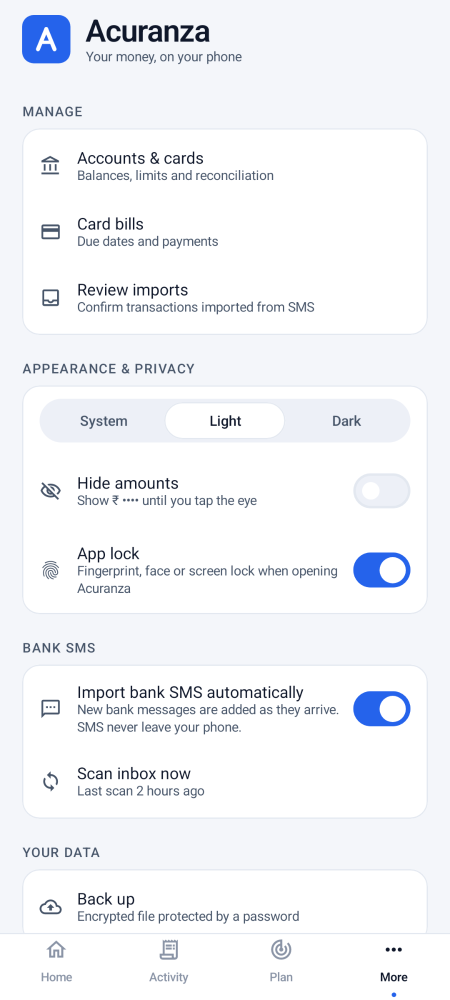
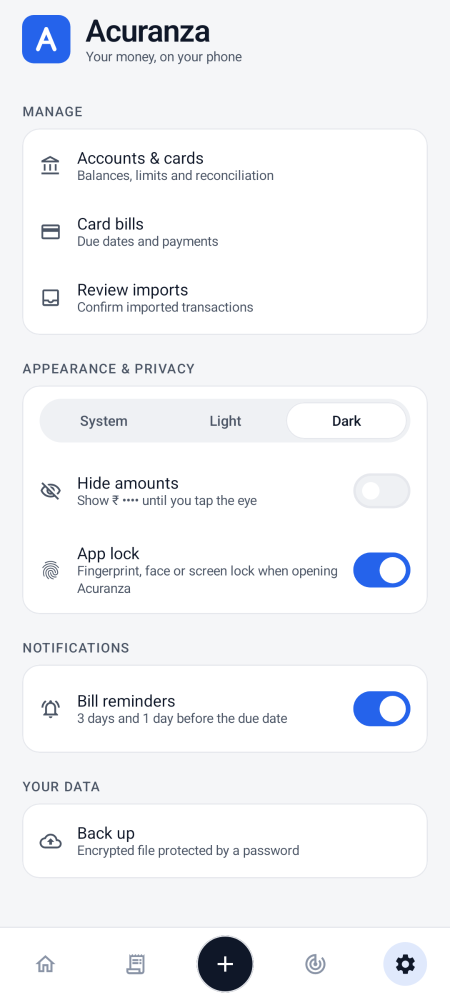
v1.3.0: UI redesign pass via ui-ux-pro-max skill — refined dark-first palette (WCAG-verified), component polish (row rhythm, empty states, radius rhythm), refreshed screenshots

diff --git a/core/designsystem/src/main/java/com/acuranza/app/designsystem/theme/Color.kt b/core/designsystem/src/main/java/com/acuranza/app/designsystem/theme/Color.kt
@@ -7,43 +7,46 @@ import androidx.compose.ui.graphics.Color
 import androidx.compose.ui.graphics.SolidColor
 
 /**
- * The Acuranza palette: cool slate-navy surfaces, off-white ink, one trust-blue accent for the brand
- * and interactions, and green reserved for money coming in. There are deliberately no gradients;
- * the old gradient names resolve to flat colours.
+ * The Acuranza palette.
+ *
+ * Dark (the default) is a deep slate-navy with clearly layered surfaces: background, card and
+ * fill step apart in lightness while hue stays constant. Text uses one ink ramp; colour is spent
+ * only where it carries meaning — green for money in, amber/red for attention, the brand blue
+ * for actions. Light mode mirrors the same structure. There are deliberately no gradients.
  */
 object BrandPalette {
     // Neutrals (light)
-    val Paper = Color(0xFFF4F6FA)
+    val Paper = Color(0xFFF5F6F8)
     val Card = Color(0xFFFFFFFF)
-    val Hairline = Color(0xFFE3E8F0)
-    val Divider = Color(0xFFEAEEF5)
-    val Ink = Color(0xFF0F172A)
-    val InkSecondary = Color(0xFF475569)
+    val Hairline = Color(0xFFE6E8ED)
+    val Divider = Color(0xFFEEF0F3)
+    val Ink = Color(0xFF0F1728)
+    val InkSecondary = Color(0xFF4B5565)
     val InkTertiary = Color(0xFF8A94A6)
-    val Fill = Color(0xFFEDF0F7)
+    val Fill = Color(0xFFEFF1F4)
 
-    // Neutrals (dark) — deep navy, not black
-    val Night = Color(0xFF0F172A)
-    val NightCard = Color(0xFF192134)
-    val NightHairline = Color(0xFF2A3A5C)
-    val NightFill = Color(0xFF1E2942)
-    val Snow = Color(0xFFF1F5F9)
-    val SnowSecondary = Color(0xFF94A3B8)
-    val SnowTertiary = Color(0xFF64748B)
+    // Neutrals (dark) — deep slate-navy, not black
+    val Night = Color(0xFF0B1220)
+    val NightCard = Color(0xFF151E2E)
+    val NightHairline = Color(0xFF2A3850)
+    val NightFill = Color(0xFF1D2737)
+    val Snow = Color(0xFFF3F6FB)
+    val SnowSecondary = Color(0xFF9FADC4)
+    val SnowTertiary = Color(0xFF6C7B96)
 
     // Accent — the brand blue
     val Blue = Color(0xFF2563EB)
     val BlueDeep = Color(0xFF1D4ED8)
-    val BlueBright = Color(0xFF60A5FA)
+    val BlueBright = Color(0xFF66A3FF)
     val BlueTint = Color(0xFFEFF6FF)
-    val BlueTintDark = Color(0xFF17263F)
+    val BlueTintDark = Color(0xFF16233C)
 
     // Money in — the only green
-    val Emerald = Color(0xFF059669)
+    val Emerald = Color(0xFF047857)
     val EmeraldDeep = Color(0xFF047857)
     val EmeraldBright = Color(0xFF34D399)
     val EmeraldTint = Color(0xFFECFDF5)
-    val EmeraldTintDark = Color(0xFF0D2A21)
+    val EmeraldTintDark = Color(0xFF0E2E24)
 
     // Status
     val Red = Color(0xFFDC2626)
@@ -51,7 +54,7 @@ object BrandPalette {
     val Amber = Color(0xFFB45309)
     val AmberTint = Color(0xFFFFFBEB)
 
-    /** Kept for compatibility; Acuranza uses no gradients, so this is flat ink. */
+    /** Kept for compatibility; Acuranza uses no gradients, so this is flat colour. */
     val brandGradient: Brush get() = SolidColor(Ink)
 
     /** Kept for compatibility; flat brand blue. */
@@ -115,7 +118,7 @@ internal val LightAcuranzaColors = AcuranzaColors(
     glassBorder = BrandPalette.Hairline,
     subtleText = BrandPalette.InkSecondary,
     divider = BrandPalette.Divider,
-    shimmerBase = Color(0xFFE9EDF4),
+    shimmerBase = Color(0xFFE9EBEF),
     shimmerHighlight = BrandPalette.Paper,
     isDark = false,
     ink = BrandPalette.Ink,
@@ -134,7 +137,7 @@ internal val DarkAcuranzaColors = AcuranzaColors(
     income = BrandPalette.EmeraldBright,
     expense = BrandPalette.Snow,
     transfer = BrandPalette.SnowSecondary,
-    warning = Color(0xFFF59E0B),
+    warning = Color(0xFFFBBF24),
     alert = Color(0xFFF87171),
     good = BrandPalette.EmeraldBright,
     tip = BrandPalette.BlueBright,
@@ -154,9 +157,9 @@ internal val DarkAcuranzaColors = AcuranzaColors(
     hairline = BrandPalette.NightHairline,
     accent = BrandPalette.BlueBright,
     accentTint = BrandPalette.BlueTintDark,
-    alertTint = Color(0xFF2A1414),
-    warningTint = Color(0xFF2A2010),
-    tipTint = Color(0xFF14202F),
+    alertTint = Color(0xFF2C1518),
+    warningTint = Color(0xFF2B2312),
+    tipTint = BrandPalette.BlueTintDark,
     fill = BrandPalette.NightFill,
 )
 

diff --git a/app/src/test/java/com/acuranza/app/screenshots/ScreensScreenshotTest.kt b/app/src/test/java/com/acuranza/app/screenshots/ScreensScreenshotTest.kt
@@ -21,8 +21,7 @@ import androidx.compose.material.icons.outlined.Backup
 import androidx.compose.material.icons.outlined.CreditCard
 import androidx.compose.material.icons.outlined.Fingerprint
 import androidx.compose.material.icons.outlined.Inbox
-import androidx.compose.material.icons.outlined.Sms
-import androidx.compose.material.icons.outlined.Sync
+import androidx.compose.material.icons.outlined.NotificationsActive
 import androidx.compose.material.icons.outlined.VisibilityOff
 import androidx.compose.material3.Icon
 import androidx.compose.material3.MaterialTheme
@@ -213,16 +212,15 @@ class ScreensScreenshotTest {
                 Section("Manage") {
                     ActionRow("Accounts & cards", "Balances, limits and reconciliation", Icons.Outlined.AccountBalance) {}
                     ActionRow("Card bills", "Due dates and payments", Icons.Outlined.CreditCard) {}
-                    ActionRow("Review imports", "Confirm transactions imported from SMS", Icons.Outlined.Inbox) {}
+                    ActionRow("Review imports", "Confirm imported transactions", Icons.Outlined.Inbox) {}
                 }
                 Section("Appearance & privacy") {
-                    SegmentedTabs(listOf("System", "Light", "Dark"), 1, onSelect = {}, modifier = Modifier.padding(vertical = 8.dp))
+                    SegmentedTabs(listOf("System", "Light", "Dark"), 2, onSelect = {}, modifier = Modifier.padding(vertical = 8.dp))
                     SwitchRow("Hide amounts", "Show ₹ •••• until you tap the eye", false, {}, Icons.Outlined.VisibilityOff)
                     SwitchRow("App lock", "Fingerprint, face or screen lock when opening Acuranza", true, {}, Icons.Outlined.Fingerprint)
                 }
-                Section("Bank SMS") {
-                    SwitchRow("Import bank SMS automatically", "New bank messages are added as they arrive. SMS never leave your phone.", true, {}, Icons.Outlined.Sms)
-                    ActionRow("Scan inbox now", "Last scan 2 hours ago", Icons.Outlined.Sync) {}
+                Section("Notifications") {
+                    SwitchRow("Bill reminders", "3 days and 1 day before the due date", true, {}, Icons.Outlined.NotificationsActive)
                 }
                 Section("Your data") {
                     ActionRow("Back up", "Encrypted file protected by a password", Icons.Outlined.Backup) {}

diff --git a/core/designsystem/src/main/java/com/acuranza/app/designsystem/components/Transactions.kt b/core/designsystem/src/main/java/com/acuranza/app/designsystem/components/Transactions.kt
@@ -77,11 +77,11 @@ fun TransactionRow(
             .fillMaxWidth()
             .clip(RoundedCornerShape(12.dp))
             .then(if (onClick != null) Modifier.clickable(onClick = onClick) else Modifier)
-            .padding(horizontal = 2.dp, vertical = 12.dp),
+            .padding(horizontal = 2.dp, vertical = 14.dp),
         verticalAlignment = Alignment.CenterVertically,
     ) {
         Box {
-            CategoryIcon(iconName = iconName, color = categoryColor, size = 36.dp)
+            CategoryIcon(iconName = iconName, color = categoryColor, size = 40.dp)
             if (unreviewed) {
                 Box(
                     Modifier
@@ -96,7 +96,7 @@ fun TransactionRow(
                 )
             }
         }
-        Spacer(Modifier.width(12.dp))
+        Spacer(Modifier.width(14.dp))
         Column(Modifier.weight(1f)) {
             Text(
                 title,
@@ -118,7 +118,7 @@ fun TransactionRow(
                 )
             }
         }
-        Spacer(Modifier.width(10.dp))
+        Spacer(Modifier.width(12.dp))
         Column(horizontalAlignment = Alignment.End) {
             AmountText(paise = amount, type = type, hidden = hidden, style = AmountStyles.medium)
             if (trailingNote != null) {
@@ -159,7 +159,7 @@ fun DateHeader(
     Row(
         modifier = modifier
             .fillMaxWidth()
-            .padding(top = 18.dp, bottom = 6.dp, start = 4.dp, end = 4.dp),
+            .padding(top = 20.dp, bottom = 8.dp, start = 4.dp, end = 4.dp),
         verticalAlignment = Alignment.CenterVertically,
     ) {
         Text(
@@ -218,8 +218,8 @@ fun SwipeActionsRow(
             Box(
                 Modifier
                     .fillMaxSize()
-                    .clip(RoundedCornerShape(18.dp))
-                    .background(color.copy(alpha = 0.9f))
+                    .clip(RoundedCornerShape(16.dp))
+                    .background(color.copy(alpha = 0.92f))
                     .padding(horizontal = 22.dp),
                 contentAlignment = if (direction == SwipeToDismissBoxValue.StartToEnd) Alignment.CenterStart else Alignment.CenterEnd,
             ) {

diff --git a/core/designsystem/src/main/java/com/acuranza/app/designsystem/components/Controls.kt b/core/designsystem/src/main/java/com/acuranza/app/designsystem/components/Controls.kt
@@ -217,14 +217,14 @@ fun EmptyState(
     ) {
         Box(
             Modifier
-                .size(56.dp)
-                .clip(RoundedCornerShape(16.dp))
+                .size(64.dp)
+                .clip(androidx.compose.foundation.shape.CircleShape)
                 .background(AcuranzaTheme.colors.fill),
             contentAlignment = Alignment.Center,
         ) {
-            Icon(icon, contentDescription = null, tint = AcuranzaTheme.colors.subtleText, modifier = Modifier.size(26.dp))
+            Icon(icon, contentDescription = null, tint = AcuranzaTheme.colors.subtleText, modifier = Modifier.size(28.dp))
         }
-        Spacer(Modifier.height(20.dp))
+        Spacer(Modifier.height(24.dp))
         Text(title, style = MaterialTheme.typography.titleMedium, textAlign = TextAlign.Center)
         Spacer(Modifier.height(8.dp))
         Text(

diff --git a/app/src/main/java/com/acuranza/app/ui/settings/MoreScreen.kt b/app/src/main/java/com/acuranza/app/ui/settings/MoreScreen.kt
@@ -159,7 +159,7 @@ fun MoreScreen(nav: NavController) {
             item(key = "shortcuts") {
                 Section("Manage") {
                     ActionRow("Accounts & cards", "Balances, limits and reconciliation", Icons.Outlined.AccountBalance) { nav.navigate(Routes.ACCOUNTS) }
-                    ActionRow("Review imports", "Confirm transactions imported from SMS", Icons.Outlined.Inbox) { nav.navigate(Routes.REVIEW) }
+                    ActionRow("Review imports", "Confirm imported transactions", Icons.Outlined.Inbox) { nav.navigate(Routes.REVIEW) }
                     ActionRow("Insights", "Offline suggestions for your budget and goals", Icons.Outlined.AutoAwesome) { nav.navigate(Routes.INSIGHTS) }
                     ActionRow("Categories", null, Icons.Outlined.Category) { nav.navigate(Routes.CATEGORIES) }
                 }

diff --git a/app/src/main/java/com/acuranza/app/ui/onboarding/NotificationGate.kt b/app/src/main/java/com/acuranza/app/ui/onboarding/NotificationGate.kt
@@ -130,7 +130,7 @@ fun NotificationReasons() {
 private fun ReasonRow(icon: ImageVector, title: String, text: String) {
     Row(Modifier.fillMaxWidth().padding(vertical = 8.dp), verticalAlignment = Alignment.CenterVertically) {
         Box(
-            Modifier.size(42.dp).clip(RoundedCornerShape(13.dp)).background(MaterialTheme.colorScheme.primary.copy(alpha = 0.12f)),
+            Modifier.size(42.dp).clip(RoundedCornerShape(12.dp)).background(MaterialTheme.colorScheme.primary.copy(alpha = 0.12f)),
             contentAlignment = Alignment.Center,
         ) { Icon(icon, contentDescription = null, tint = MaterialTheme.colorScheme.primary) }
         Spacer(Modifier.width(14.dp))

diff --git a/app/src/main/java/com/acuranza/app/ui/home/HomeScreen.kt b/app/src/main/java/com/acuranza/app/ui/home/HomeScreen.kt
@@ -631,7 +631,7 @@ fun HomeContent(
                     SectionHeader("Recent", actionLabel = "See all", onAction = onActivity)
                     AcuranzaCard(contentPadding = PaddingValues(horizontal = 14.dp, vertical = 2.dp)) {
                         state.recent.forEachIndexed { i, t ->
-                            if (i > 0) ListHairline(start = 48.dp)
+                            if (i > 0) ListHairline(start = 56.dp)
                             TxnRow(t, hidden) { onTransaction(t.txn.id) }
                         }
                     }

diff --git a/app/src/main/java/com/acuranza/app/ui/onboarding/OnboardingScreen.kt b/app/src/main/java/com/acuranza/app/ui/onboarding/OnboardingScreen.kt
@@ -166,7 +166,7 @@ private fun StepPage(
                     Modifier
                         .padding(top = 8.dp)
                         .size(56.dp)
-                        .clip(RoundedCornerShape(18.dp))
+                        .clip(RoundedCornerShape(16.dp))
                         .background(AcuranzaTheme.colors.ink),
                     contentAlignment = Alignment.Center,
                 ) { Icon(icon, contentDescription = null, tint = AcuranzaTheme.colors.onInk) }

diff --git a/core/designsystem/src/main/java/com/acuranza/app/designsystem/components/Badges.kt b/core/designsystem/src/main/java/com/acuranza/app/designsystem/components/Badges.kt
@@ -87,7 +87,7 @@ fun CreditCardVisual(
         modifier = modifier
             .fillMaxWidth()
             .aspectRatio(1.586f)
-            .clip(RoundedCornerShape(18.dp))
+            .clip(RoundedCornerShape(16.dp))
             .background(InkFace)
             .semantics {
                 contentDescription = "${bank.displayName} card ${last4?.let { "ending $it" } ?: ""}"
